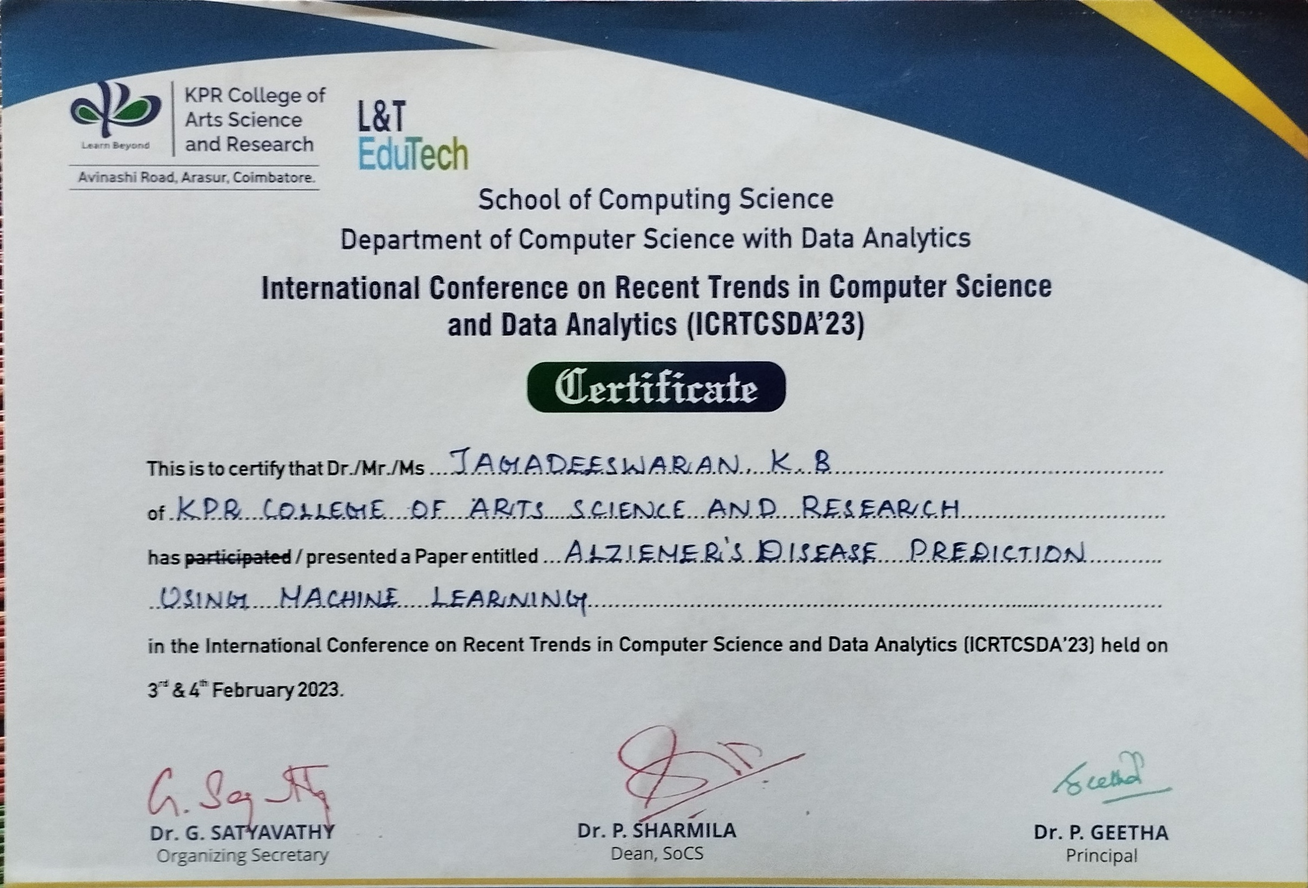
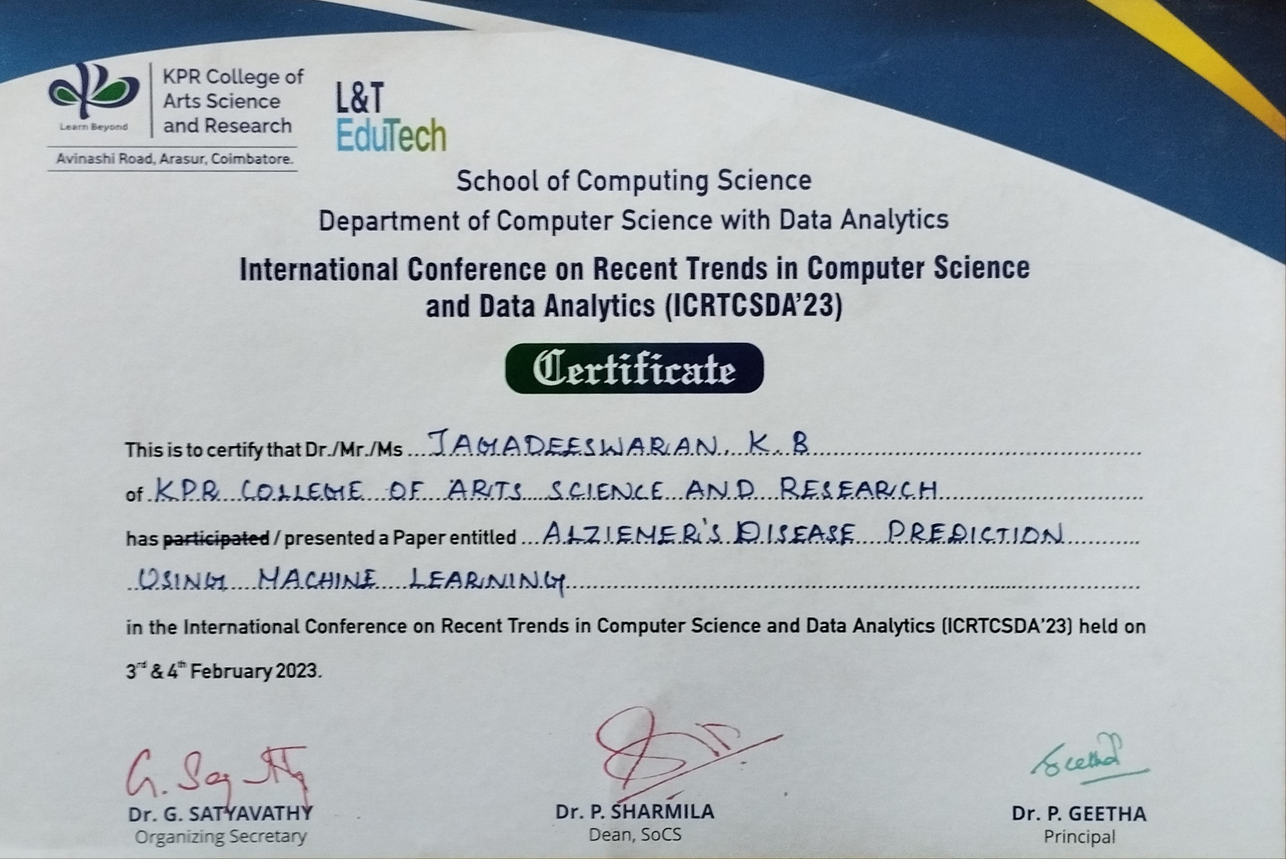
Changed the low quality images

diff --git a/achievements.html b/achievements.html
@@ -61,7 +61,13 @@
    <center> <h2 class="a_title">Book Publication</h2> </center>
    <br>
    <br>
-   <center> <img class="4_cer" src="Assets/img/book publication.png" alt="3cer" width="70%" height="20%"> </center>
+   <center> <img class="4_cer" src="Assets/img/achievements/bookpublication.png" alt="3cer" width="70%" height="20%"> </center>
+   <br>
+   <br>
+   <center> <h2 class="a_title">Research Paper</h2> </center>
+   <br>
+   <br>
+   <center> <img class="4_cer" src="Assets/img/achievements/Researh Paper.png" alt="3cer" width="70%" height="20%"> </center>
 </a>
        
         
